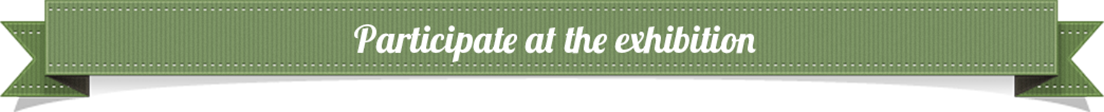
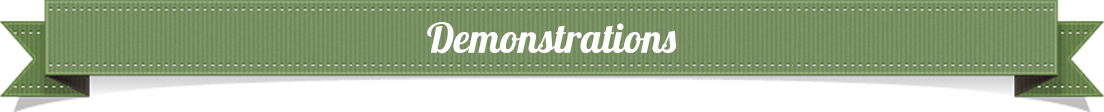
added some images

diff --git a/index.php b/index.php
@@ -175,7 +175,7 @@
 	<div class="ribbon">
 		<img src="design/images/participate_ribbon.png" alt="participate_ribbon" width="1104" height="112" />
 	</div>
-	<img src="design/images/pricing.png" alt="participate_text"/>
+	<img src="design/images/tutorials.jpg" alt="participate_text"/>
 	<img class="bottom" src="design/images/section/bottom.png" alt="top" width="940" height="25" />
 	<a class="tab tab_register" target="_blank" href="https://docs.google.com/forms/d/1WIcSviQ6q-zvbz4nKrEwg5c_iaD8FcucmQ6BLWNPr1g/viewform"><img src="design/images/register_now.png" alt="register_tab"width="144" height="86" /></a>
 	<a class="tab tab_email" href="design/images/package_descriptions.pdf"><img src="design/images/package_tab.png" alt="register_tab" width="144" height="86" /></a>
